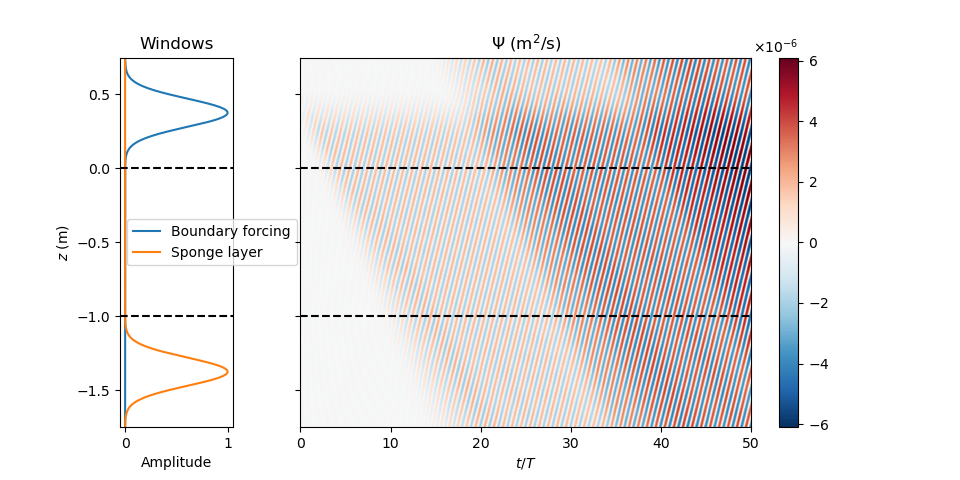
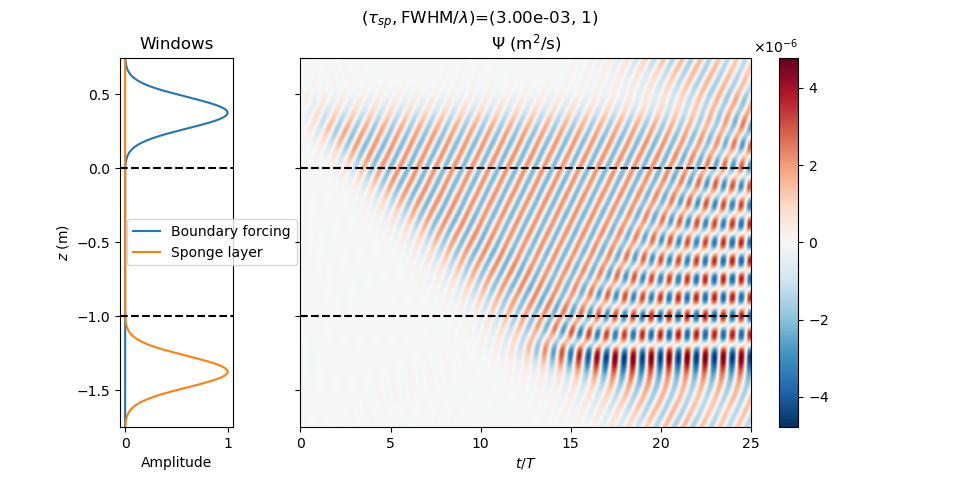
Adjusting tau and window still doesn't make sponge work

diff --git a/stand_alone.py b/stand_alone.py
@@ -25,12 +25,13 @@ logger = logging.getLogger(__name__)
 
 ###############################################################################
 # Switches
-plot_windows = True
+plot_windows = False
 run_sim = True
 
 ###############################################################################
 # Run parameters
-stop_n_periods = 50             # [] oscillation periods
+stop_n_periods = 25             # [] oscillation periods
+dt             = 0.125          # [s] time step for simulation
 # Displayed domain parameters
 nz     = 1024                   # [] number of grid points in the z direction
 zf_dis = 0.0                    # [m] the top of the displayed z domain
@@ -57,16 +58,16 @@ print('group speed is',omega*m/(k**2 + m**2),'m/s') # cushman-roisin and beckers
 
 ###############################################################################
 # Boundary forcing window parameters
-a_bf    = 3*lam_z               # [m] forcing area, height above display domain
-b_bf    = 0.3*a_bf              # [m] full width at half max of forcing window
+b_bf    = 1*lam_z               # [m] full width at half max of forcing window
+a_bf    = 3*b_bf               # [m] forcing area, height above display domain
 c_bf    = zf_dis + 0.5*a_bf     # [m] center of forcing area
 tau_bf  = 1.0e0                 # [s] time constant for boundary forcing
 
 # Sponge layer window parameters
-a_sp    = 3*lam_z               # [m] sponge area, height below display domain
-b_sp    = 0.3*a_sp              # [m] full width at half max of sponge window
+b_sp    = 1*lam_z               # [m] full width at half max of sponge window
+a_sp    = 3*b_sp                # [m] sponge area, height below display domain
 c_sp    = z0_dis - 0.5*a_sp     # [m] center of sponge area
-tau_sp  = 1.0e-1                # [s] time constant for sponge layer
+tau_sp  = 3.0e-3                # [s] time constant for sponge layer
 
 ###############################################################################
 # Simulated domain parameters
@@ -192,7 +193,6 @@ try:
     logger.info(endtime_str %(solver.stop_sim_time/time_factor))
     logger.info('Starting loop')
     start_time = time.time()
-    dt = 0.125
     while solver.proceed:
         if (adapt_dt):
             dt = CFL.compute_dt()
@@ -218,7 +218,7 @@ finally:
 psi_g_array = np.transpose(np.array(psi_gs))
 t_array = np.array(t_list)
 
-def plot_z_vs_t(z, t_array, T, w_array, win_bf_array, win_sp_array, k, m, omega, z0_dis=None, zf_dis=None, c_map='RdBu_r'):
+def plot_z_vs_t(z, t_array, T, w_array, win_bf_array, win_sp_array, z0_dis=None, zf_dis=None, c_map='RdBu_r', title_str='1D forced wave'):
     # Set aspect ratio of overall figure
     w, h = mpl.figure.figaspect(0.5)
     # This dictionary makes each subplot have the desired ratios
@@ -248,6 +248,8 @@ def plot_z_vs_t(z, t_array, T, w_array, win_bf_array, win_sp_array, k, m, omega,
     #
     axes[1].set_xlabel(r'$t/T$')
     axes[1].set_title(r'$\Psi$ (m$^2$/s)')
+    fig.suptitle(title_str)
     plt.savefig('stand_alone_wave.png')
 
-plot_z_vs_t(z, t_array, T, psi_g_array, win_bf_array, win_sp_array, k, m, omega, z0_dis, zf_dis, c_map='RdBu_r')
+title_str = r'$(\tau_{sp}, $FWHM$/\lambda)$=(%.2e, %d)' %(tau_sp,b_sp/lam_z)
+plot_z_vs_t(z, t_array, T, psi_g_array, win_bf_array, win_sp_array, z0_dis, zf_dis, c_map='RdBu_r', title_str=title_str)
